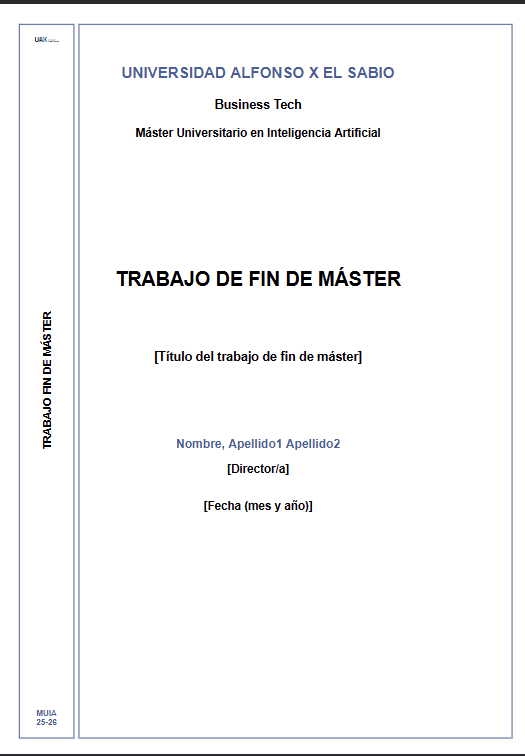
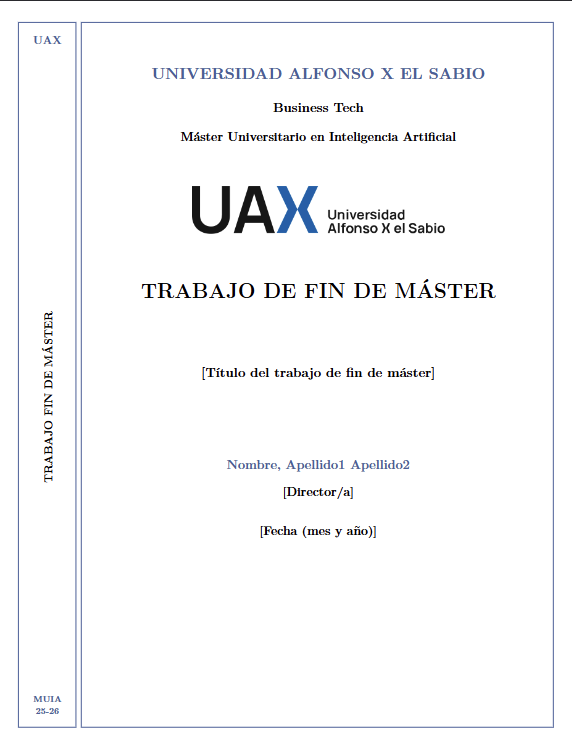
added cover image to showcase it on the readme file

diff --git a/README.md b/README.md
@@ -2,7 +2,7 @@
 
 ![Status](https://img.shields.io/badge/status-in%20development-orange?style=for-the-badge)
 
-***Inspirada en la plantilla de word disponible en el campus.***
+<image src="readme_images/portada.png" alt="Descripción de la imagen">
 
 > [!NOTE]
 > Se asume que quien use esta plantilla, tiene conocimientos avanzados de **LaTeX**, por eso se han simplificado las instrucciones de uso
